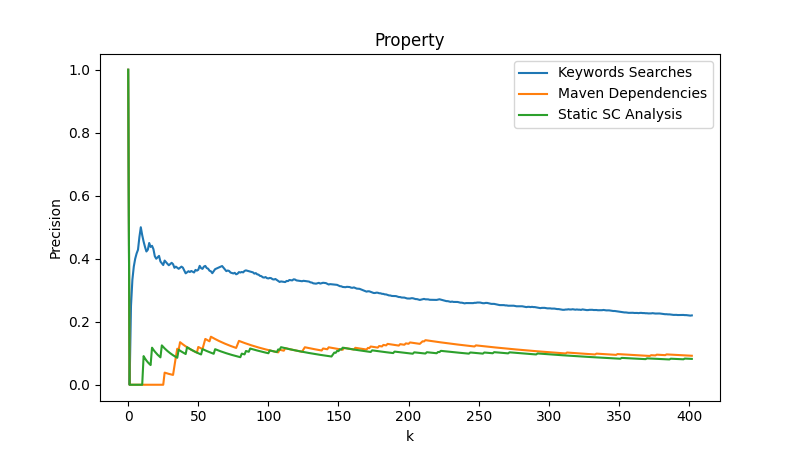
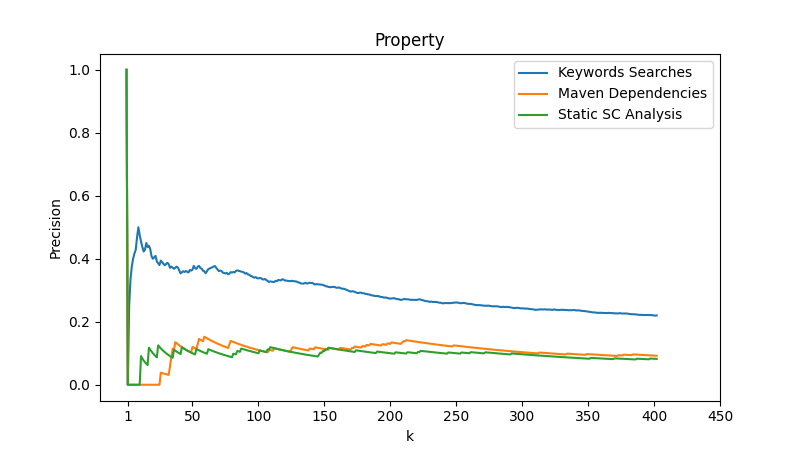
Visuals: start precision graphs at 1 instead of 0

diff --git a/Statistics/script-2-precision.py b/Statistics/script-2-precision.py
@@ -4,6 +4,8 @@ from script_shared import annotated, bottomup
 from script_shared import get_top_down_issues, get_maven_issues, get_bottom_up_issues, colors, plot_styles, hatches
 from script_shared import box_scale, box_show_outliers, graph_colors
 
+import numpy
+
 show_figures = False
 
 
@@ -88,6 +90,10 @@ def plot_precision_data(tag = ""):
             ax.plot(to_plot[i], plot_styles[i], label=labels[i], color=color)
 
     ax.set(xlabel='k', ylabel='Precision')
+    xticks = ax.get_xticks()[1:]
+    xticks[0] = 1
+    ax.set_xticks(xticks)
+
     ax.set_title(tag)
     ax.legend()
     fig.set_size_inches(8,4.5)
@@ -107,6 +113,9 @@ def plot_precision_data(tag = ""):
         ax.plot(maven_changed_prec, plot_styles[2], label='Maven Dependencies: Changed', color='#000000')
         ax.plot(maven_total_prec, plot_styles[3], label='Maven Dependencies: Total', color='#000000')
     ax.set(xlabel='k', ylabel='Precision')
+    xticks = ax.get_xticks()[1:]
+    xticks[0]=1
+    ax.set_xticks(xticks)
     ax.set_title(tag)
     ax.legend()
     fig.set_size_inches(8,4.5)
@@ -141,6 +150,9 @@ def plot_average_precision_data(tag = ""):
         ax.plot(bu_precision, plot_styles[2], label='Static SC Analysis', color='#000000')
 
     ax.set(xlabel='k', ylabel='Precision')
+    xticks = ax.get_xticks()[1:]
+    xticks[0] = 1
+    ax.set_xticks(xticks)
     ax.set_title(tag)
     ax.legend()
 
@@ -171,6 +183,9 @@ def plot_limited_precision_data(tag = ""):
         ax.plot(maven_removed_prec, plot_styles[1], label='Maven Dependencies: Removed', color='#000000')
         ax.plot(maven_changed_prec, plot_styles[2], label='Maven Dependencies: Changed', color='#000000')
 
+    xticks = ax.get_xticks()[1:]
+    xticks[0] = 1
+    ax.set_xticks(xticks)
     ax.set(xlabel='k', ylabel='Precision')
     ax.set_title(tag)
     ax.legend()
@@ -200,6 +215,9 @@ def plot_query_precision_data(tag = ""):
         ax.plot(r_precision, plot_styles[2], label='Rationale', color='#000000')
         ax.plot(rs_precision, plot_styles[3], label='Reusable Solutions', color='#000000')
 
+    xticks = ax.get_xticks()[1:]
+    xticks[0] = 1
+    ax.set_xticks(xticks)
     ax.set(xlabel='k', ylabel='Precision')
     ax.set_title(tag)
     ax.legend()
